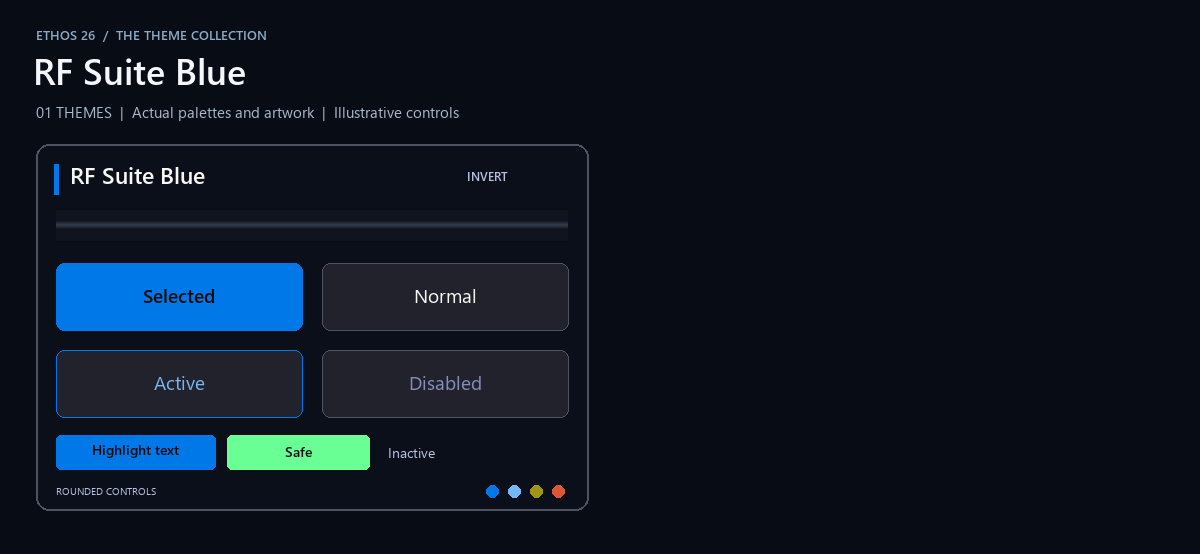
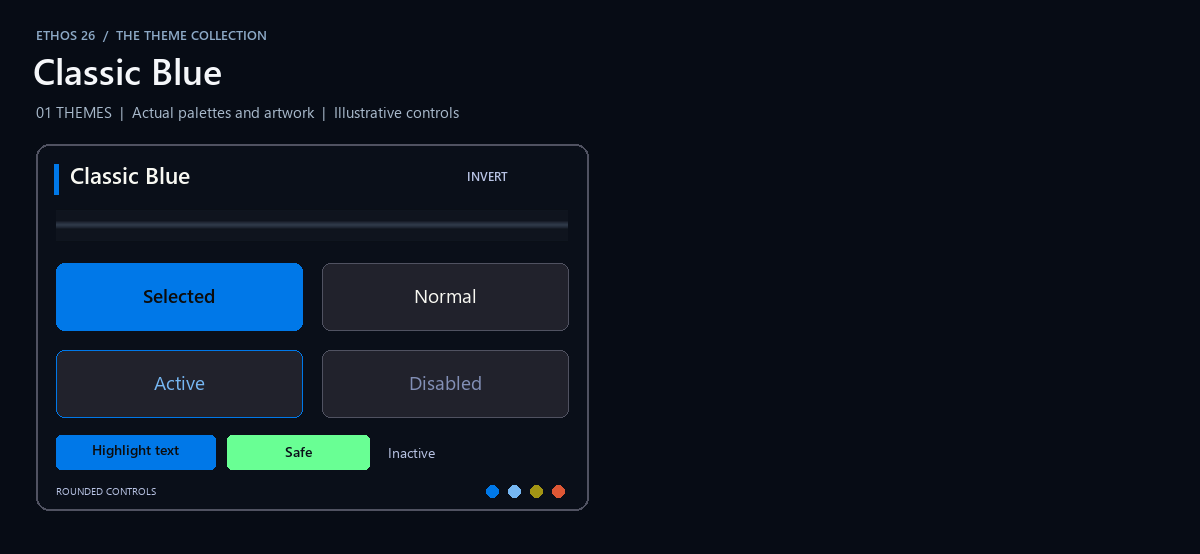
Present the catalog as standalone ETHOS 26 themes

Changed region(s): [[0.0308, 0.0921, 0.2158, 0.1534], [0.0617, 0.3069, 0.185, 0.3375]]

diff --git a/tools/generate_all_previews.py b/tools/generate_all_previews.py
@@ -3,6 +3,7 @@ from generate_readme_previews import FAMILIES
 from generate_custom_art_themes import COLLECTIONS
 from generate_cancer_awareness_themes import THEMES as AWARENESS
 from generate_rf_pro_preview import THEMES as RF_PRO
+from generate_rf_pro_preview import DISPLAY_NAMES as PRO_NAMES
 from generate_america250_theme import preview as america_preview
 from preview_lib import render_collection
 
@@ -14,8 +15,9 @@ def main():
     for slug, (title, themes) in COLLECTIONS.items():
         render_collection(slug, title, themes)
     render_collection("cancer-awareness", "Cancer Awareness", [t[0] for t in AWARENESS])
-    render_collection("rf-pro", "RF Pro Color Collection", RF_PRO)
-    render_collection("classic", "RF Suite Blue", ["rfsuite-blue"])
+    render_collection("rf-pro", "Pro Color Collection", RF_PRO, display_names=PRO_NAMES)
+    render_collection("classic", "Classic Blue", ["rfsuite-blue"],
+                      display_names={"rfsuite-blue": "Classic Blue"})
     print("Generated all 17 catalog previews from current theme sources")
 
 

diff --git a/tools/generate_rf_pro_preview.py b/tools/generate_rf_pro_preview.py
@@ -1,4 +1,4 @@
-"""Generate RF Pro previews from current theme sources."""
+"""Generate Pro collection previews from current theme sources."""
 from preview_lib import render_collection
 
 THEMES = [
@@ -14,9 +14,17 @@ THEMES = [
     "rf-lime-pro",
 ]
 
+DISPLAY_NAMES = {
+    "rfblue-pro": "Blue Pro",
+    **{f"rf-{color}-pro": f"{color.title()} Pro" for color in (
+        "violet", "emerald", "ember", "magenta", "cyan",
+        "crimson", "gold", "teal", "lime",
+    )},
+}
+
 
 def main():
-    render_collection("rf-pro", "RF Pro Color Collection", THEMES)
+    render_collection("rf-pro", "Pro Color Collection", THEMES, display_names=DISPLAY_NAMES)
 
 
 if __name__ == "__main__":

diff --git a/tools/preview_lib.py b/tools/preview_lib.py
@@ -98,8 +98,12 @@ def draw_card(canvas, theme, x, y):
         draw.ellipse((left, y + 341, left + 12, y + 353), fill=c[role])
 
 
-def render_collection(slug, title, theme_slugs):
+def render_collection(slug, title, theme_slugs, *, display_names=None):
     themes = [parse_theme(name) for name in theme_slugs]
+    # Catalog labels can differ from legacy package names without renaming installs.
+    for theme_slug, theme in zip(theme_slugs, themes):
+        if display_names and theme_slug in display_names:
+            theme["name"] = display_names[theme_slug]
     rows = (len(themes) + 1) // 2
     height = 160 + rows * 394
     canvas = Image.new("RGB", (1200, height), (7, 12, 21))

diff --git a/README.md b/README.md
@@ -1,10 +1,10 @@
-# ETHOS Themes
+# ETHOS 26 Themes
 
 ## Radio compatibility
 
-Every current theme download automatically selects the correct toolbar artwork: **784x50** on 800px radios such as the X20 Pro and X18RS, or **464x50** on standard 480px X18 radios. One ZIP works on both display sizes. Rotorflight and RF Suite Lua files are not modified.
+Every current theme download automatically selects the correct toolbar artwork: **784x50** on 800px radios such as the X20 Pro and X18RS, or **464x50** on standard 480px X18 radios. One ZIP works on both display sizes.
 
-Custom FrSky ETHOS themes focused on improving Rotorflight RF Suite and the wider ETHOS interface.
+Standalone themes for FrSky ETHOS 26, with custom colors, controls, and toolbar artwork for the radio interface.
 
 **Current packages: America 250 v1.2.1; other themes v1.2.0, for ETHOS 26.1.0 and newer.** API checked against ETHOS 26.1.2. See [compatibility details and changes](ETHOS26.md). Physical-radio acceptance remains on the [testing checklist](TESTING.md).
 
@@ -20,7 +20,7 @@ The **v1.2.0 readability update** improves foreground contrast and refreshes eve
 
 ## Cancer Awareness collection
 
-These 10 themes use original generic awareness-ribbon artwork and matching color palettes. Every theme remains a separate download with its own folder, short ETHOS key, source link, and ZIP. No Rotorflight or RF Suite Lua files are modified.
+These 10 themes use original generic awareness-ribbon artwork and matching color palettes. Every theme remains a separate download with its own folder, short ETHOS key, source link, and ZIP.
 
 <a href="previews/cancer-awareness.png"><img src="previews/cancer-awareness.png" alt="Cancer Awareness theme previews" width="760"></a>
 
@@ -37,7 +37,7 @@ These 10 themes use original generic awareness-ribbon artwork and matching color
 
 ## Custom-art collections
 
-These 12 themes add detailed toolbar artwork while remaining normal standalone ETHOS radio themes. Every theme has its own folder, short key, source link, and separate ZIP download. No Rotorflight or RF Suite Lua files are modified.
+These 12 themes add detailed toolbar artwork while remaining normal standalone ETHOS radio themes. Every theme has its own folder, short key, source link, and separate ZIP download.
 
 ### Flight Systems
 
@@ -157,28 +157,28 @@ These themes use six genuinely different visual styles rather than only changing
 - **Molten Sulfur v1.2.0** — glowing lava-crack toolbar with an acid yellow-green fissure — [Download](releases/Molten-Sulfur-v1.2.0.zip) — [Source](themes/theme-molten-sulfur)
 - **Molten Verdigris v1.2.0** — glowing lava-crack toolbar with a cooled teal-green fissure — [Download](releases/Molten-Verdigris-v1.2.0.zip) — [Source](themes/theme-molten-verdigris)
 
-## RF Pro color collection
+## Pro color collection
 
-All RF Pro themes use dark square controls, outline focus, clear inactive and disabled states, and responsive 784x50/464x50 toolbar artwork. Every theme has a separate short ETHOS-safe key, so they can remain installed together.
+All Pro themes use dark square controls, outline focus, clear inactive and disabled states, and responsive 784x50/464x50 toolbar artwork. Every theme has a separate short ETHOS-safe key, so they can remain installed together.
 
-<a href="previews/rf-pro.png"><img src="previews/rf-pro.png" alt="RF Pro color collection previews" width="760"></a>
+<a href="previews/rf-pro.png"><img src="previews/rf-pro.png" alt="Pro color collection previews" width="760"></a>
 
-- **RF Blue Pro v1.2.0** — [Download](releases/RF-Blue-Pro-v1.2.0.zip) — [Source](themes/theme-rfblue-pro)
-- **RF Violet Pro v1.2.0** — [Download](releases/RF-Violet-Pro-v1.2.0.zip) — [Source](themes/theme-rf-violet-pro)
-- **RF Emerald Pro v1.2.0** — [Download](releases/RF-Emerald-Pro-v1.2.0.zip) — [Source](themes/theme-rf-emerald-pro)
-- **RF Ember Pro v1.2.0** — [Download](releases/RF-Ember-Pro-v1.2.0.zip) — [Source](themes/theme-rf-ember-pro)
-- **RF Magenta Pro v1.2.0** — [Download](releases/RF-Magenta-Pro-v1.2.0.zip) — [Source](themes/theme-rf-magenta-pro)
-- **RF Cyan Pro v1.2.0** — [Download](releases/RF-Cyan-Pro-v1.2.0.zip) — [Source](themes/theme-rf-cyan-pro)
-- **RF Crimson Pro v1.2.0** — [Download](releases/RF-Crimson-Pro-v1.2.0.zip) — [Source](themes/theme-rf-crimson-pro)
-- **RF Gold Pro v1.2.0** — [Download](releases/RF-Gold-Pro-v1.2.0.zip) — [Source](themes/theme-rf-gold-pro)
-- **RF Teal Pro v1.2.0** — [Download](releases/RF-Teal-Pro-v1.2.0.zip) — [Source](themes/theme-rf-teal-pro)
-- **RF Lime Pro v1.2.0** — [Download](releases/RF-Lime-Pro-v1.2.0.zip) — [Source](themes/theme-rf-lime-pro)
+- **Blue Pro v1.2.0** — [Download](releases/RF-Blue-Pro-v1.2.0.zip) — [Source](themes/theme-rfblue-pro)
+- **Violet Pro v1.2.0** — [Download](releases/RF-Violet-Pro-v1.2.0.zip) — [Source](themes/theme-rf-violet-pro)
+- **Emerald Pro v1.2.0** — [Download](releases/RF-Emerald-Pro-v1.2.0.zip) — [Source](themes/theme-rf-emerald-pro)
+- **Ember Pro v1.2.0** — [Download](releases/RF-Ember-Pro-v1.2.0.zip) — [Source](themes/theme-rf-ember-pro)
+- **Magenta Pro v1.2.0** — [Download](releases/RF-Magenta-Pro-v1.2.0.zip) — [Source](themes/theme-rf-magenta-pro)
+- **Cyan Pro v1.2.0** — [Download](releases/RF-Cyan-Pro-v1.2.0.zip) — [Source](themes/theme-rf-cyan-pro)
+- **Crimson Pro v1.2.0** — [Download](releases/RF-Crimson-Pro-v1.2.0.zip) — [Source](themes/theme-rf-crimson-pro)
+- **Gold Pro v1.2.0** — [Download](releases/RF-Gold-Pro-v1.2.0.zip) — [Source](themes/theme-rf-gold-pro)
+- **Teal Pro v1.2.0** — [Download](releases/RF-Teal-Pro-v1.2.0.zip) — [Source](themes/theme-rf-teal-pro)
+- **Lime Pro v1.2.0** — [Download](releases/RF-Lime-Pro-v1.2.0.zip) — [Source](themes/theme-rf-lime-pro)
 
 ## Classic theme
 
-<a href="previews/classic.png"><img src="previews/classic.png" alt="RF Suite Blue theme preview" width="760"></a>
+<a href="previews/classic.png"><img src="previews/classic.png" alt="Classic Blue theme preview" width="760"></a>
 
-**RF Suite Blue v1.2.0** keeps rounded controls and solid blue selected controls.
+**Classic Blue v1.2.0** keeps rounded controls and solid blue selected controls.
 
 - [View source](themes/theme-rfsuite-blue)
 - [Download current responsive release v1.2.0](releases/RF-Suite-Blue-v1.2.0.zip)
@@ -186,7 +186,7 @@ All RF Pro themes use dark square controls, outline focus, clear inactive and di
 
 ## Installation
 
-1. Download the desired theme's latest ZIP and use **Lua Library > Install from local .zip** in Suite. For manual installation, create its named theme folder inside `scripts` and extract the ZIP contents into it (for example, `scripts/theme-carbon/main.lua`). You can also copy the complete source theme folder into `scripts`.
+1. Download the desired theme's latest ZIP and use **Lua Library > Install from local .zip** in ETHOS Suite. For manual installation, create its named theme folder inside `scripts` and extract the ZIP contents into it (for example, `scripts/theme-carbon/main.lua`). You can also copy the complete source theme folder into `scripts`.
 2. Restart the transmitter.
 3. Open **System > General > Theme**.
 4. Select the desired theme.
@@ -199,16 +199,16 @@ Every generator writes both toolbar sizes, the automatic display-size selection,
 
 - `tools/theme_lib.py` holds the shared packaging helpers every generator uses.
 - `tools/generate_all_previews.py` refreshes all catalog images from the current Lua palettes and toolbar files, including America 250 and Classic. It does not regenerate the radio artwork.
-- `tools/generate_america250_theme.py` regenerates America 250, both native-size toolbar images, its Suite-compatible ZIP, and the featured preview.
+- `tools/generate_america250_theme.py` regenerates America 250, both native-size toolbar images, its ETHOS Suite-compatible ZIP, and the featured preview.
 - `tools/test_ethos26.py` executes all themes against the documented ETHOS 26 API using Lua runtimes and API stubs. See [test commands](TESTING.md#automated-checks).
 - `tools/validate_catalog.py` checks the whole catalog read-only: artwork sizes and encoding, responsive toolbar selection, unique ETHOS keys, and release ZIPs that match their theme folders.
 - `tools/rebuild_releases.py` repackages every theme's current release ZIP from its source folder, leaving superseded archives untouched.
 - `tools/generate_cancer_awareness_themes.py` regenerates the 10 Cancer Awareness themes, separate ZIPs, and collection preview.
 - `tools/generate_custom_art_themes.py` regenerates the 12 custom-art themes, separate ZIPs, and four collection previews.
 - `tools/generate_readme_previews.py` regenerates the nine standalone-family README preview images from the actual theme source files.
-- `tools/generate_rf_pro_preview.py` regenerates the RF Pro collection preview from the actual RF Pro source files.
+- The [Pro preview generator](tools/generate_rf_pro_preview.py) regenerates the Pro collection preview from its theme source files.
 - `tools/generate_standalone_themes.py` regenerates the 22 standalone themes and their separate ZIPs.
-- `tools/generate_rf_pro_collection.py` regenerates the RF Pro color variants and their separate ZIPs.
+- The [Pro theme generator](tools/generate_rf_pro_collection.py) regenerates the Pro color variants and their separate ZIPs.
 - `tools/generate_molten_themes.py` regenerates the 3 Molten themes, their responsive X18/X20 toolbar artwork, and their separate ZIPs.
 - `tools/generate_elements_themes.py` regenerates the 4 Elements themes, their natively rendered X18/X20 toolbar artwork, and their separate ZIPs.
 - `tools/generate_texture_themes.py` regenerates the 4 Texture themes, their natively rendered X18/X20 toolbar artwork, and their separate ZIPs.
